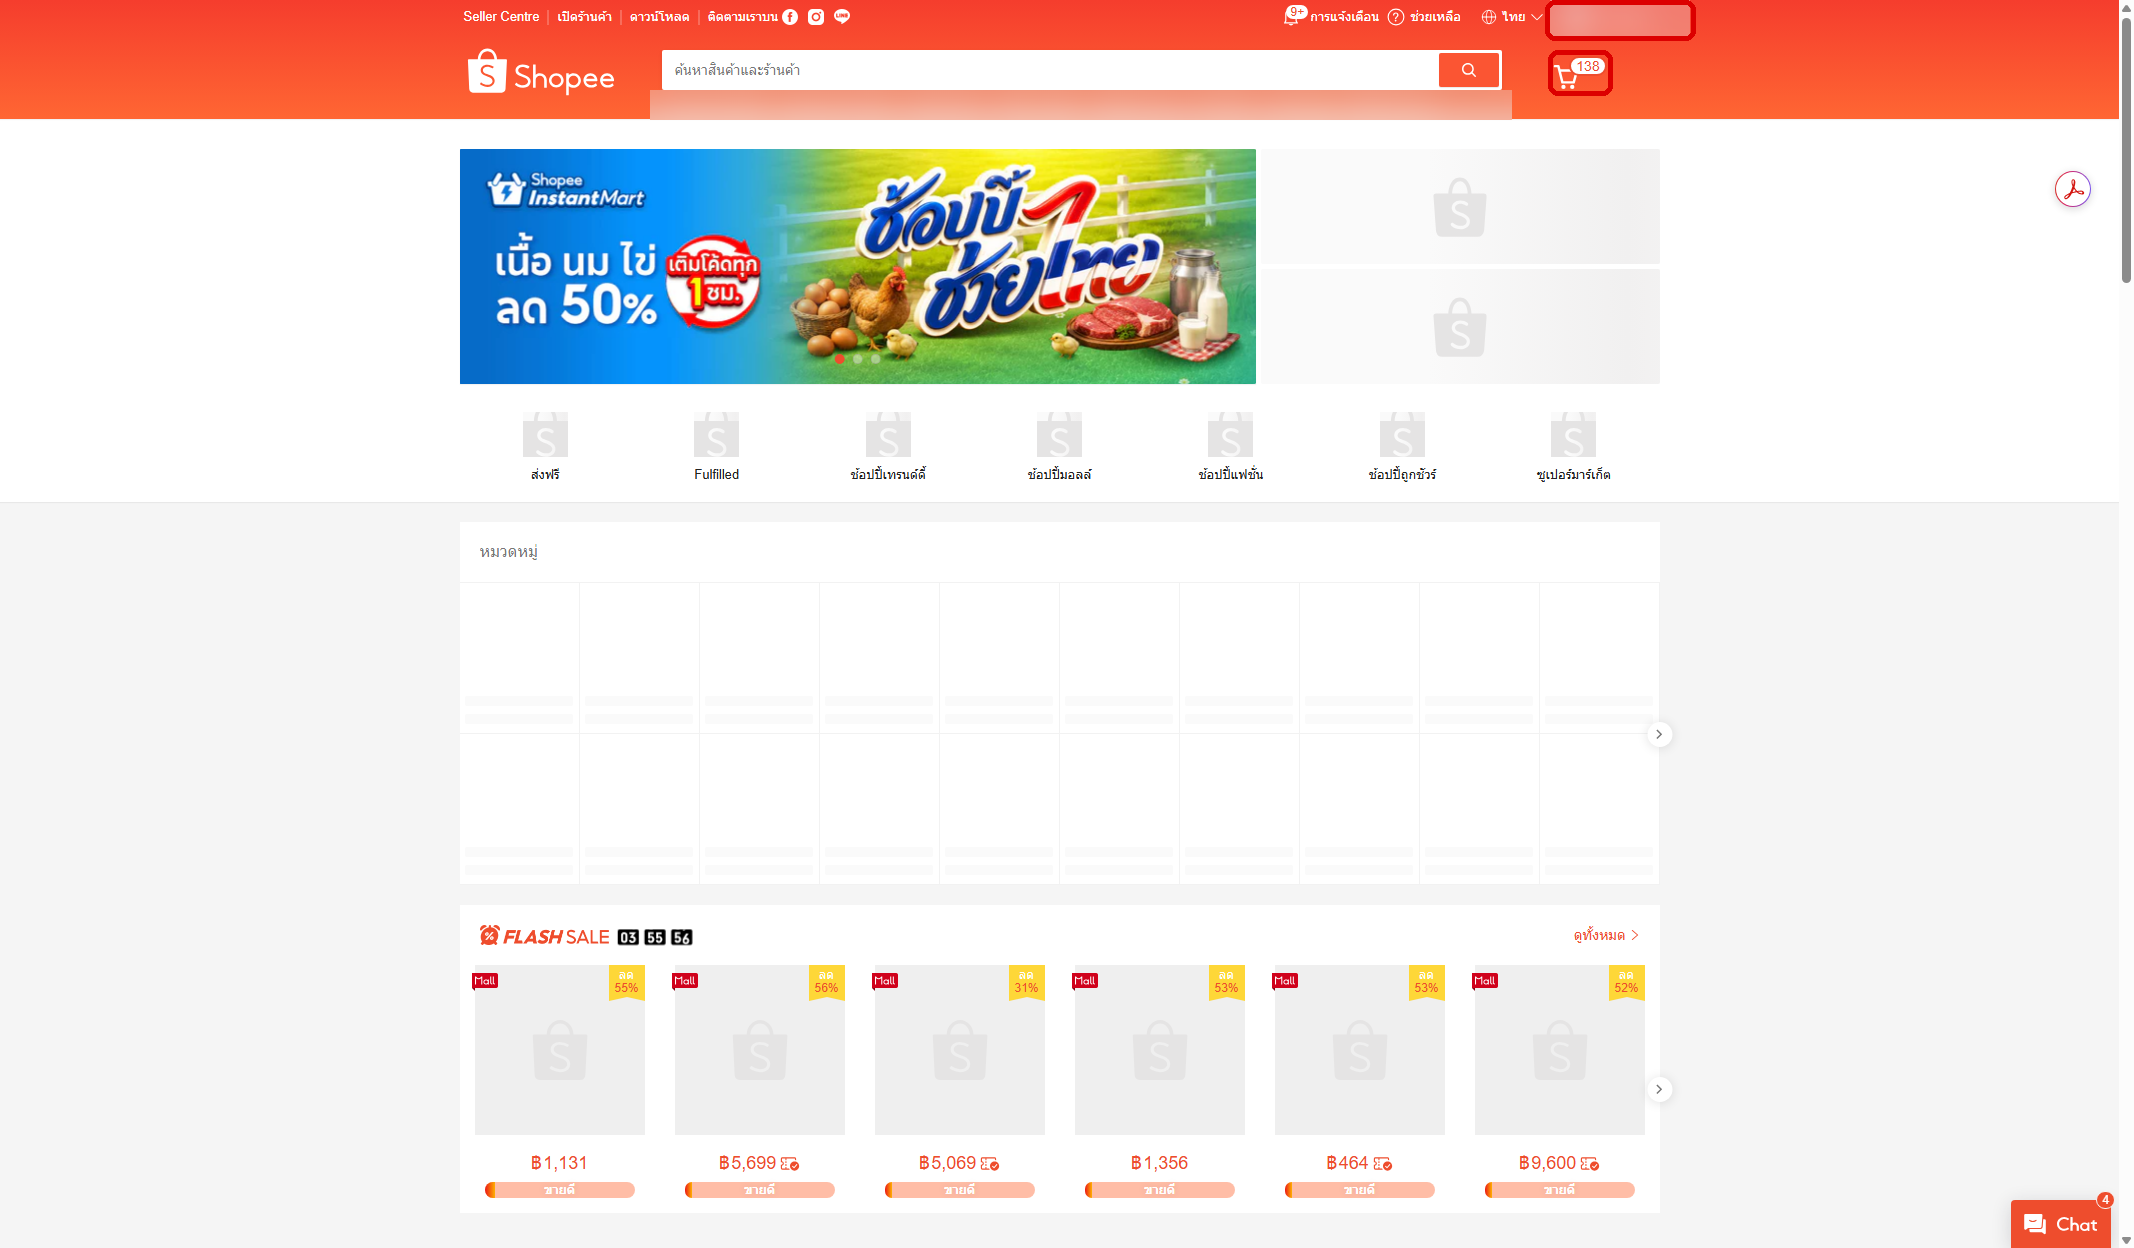
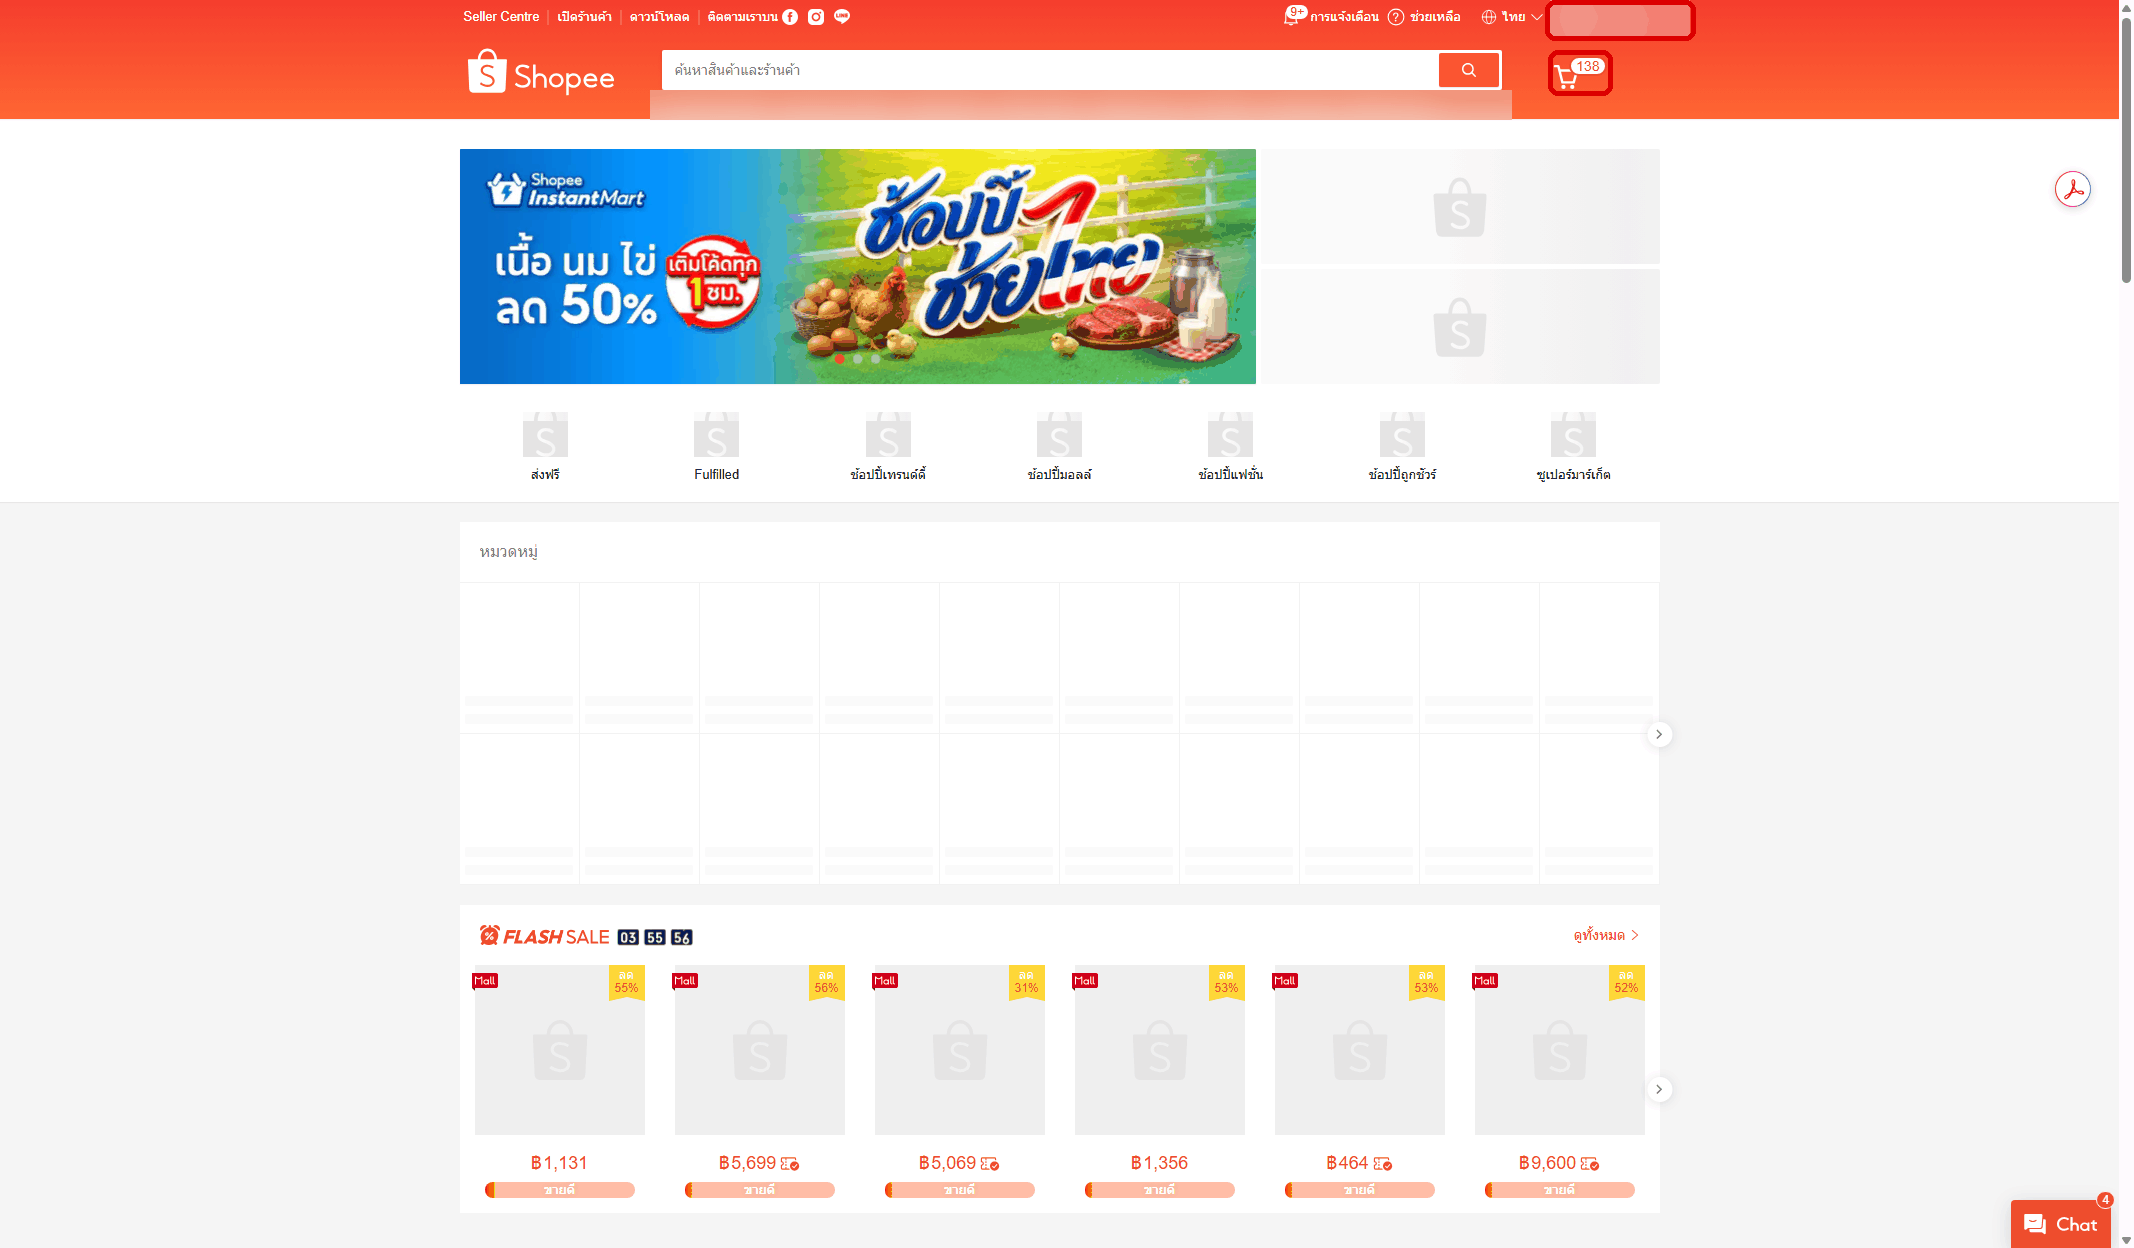
Shopee lesson: real-run results for LAB 4-8 with censored GIFs
Adds per-LAB concept images, blurred GIFs and stills for TC-SRCH-01,
TC-SRCH-02, TC-SORT-01 and TC-CART-01, the lazy-load and stale-keyword
pitfalls found in the run, and updates the solution report, results
and page checks to the 4-case plan.

Changed region(s): [[0.3093, 0.1562, 0.5876, 0.3125], [0.5567, 0.125, 0.5876, 0.1562]]

diff --git a/00_week01/02_test-from-plan/02_shopee-login/_solution/e2e/checks.js b/00_week01/02_test-from-plan/02_shopee-login/_solution/e2e/checks.js
@@ -1,32 +1,57 @@
 // Page checks used in the real run (2026-11-02). Each function is passed to the Playwright MCP
 // (browser_evaluate) on the matching page; they only read the page and never click.
 
-// TC-AUTH-01 · home page: logged in = no login/sign-up link at top right
+// Pre-check · home page: logged in = no login/sign-up link at top right
 () => {
   const nav = document.querySelector('header nav, nav');
   const text = nav ? nav.innerText : document.body.innerText;
   const cart = document.querySelector('a[href*="/cart"]');
   return {
+    captcha: /verify|captcha/i.test(location.href),
     loginButtonVisible: /เข้าสู่ระบบ|สมัครใหม่/.test(text),
-    cartBadge: cart ? cart.innerText.trim() : null,   // the account name is deliberately not returned
+    cartBadge: cart ? cart.innerText.trim().split('\n').pop() : null,   // the account name is deliberately not returned
   };
 }
 
-// TC-SRCH-01 · search results (scroll down slowly first so all cards load)
-() => {
+// TC-SRCH-01 / TC-SRCH-02 · search results (scroll down slowly first so all cards load).
+// An empty title means "not loaded yet", not "wrong product": scroll to that card and count again.
+async () => {
+  const WORD = /แมว|cat/i;            // TC-SRCH-02: /สุนัข|หมา|dog/i
   const items = [...document.querySelectorAll('li.shopee-search-item-result__item')];
-  const titles = items.map((li) => {
+  const title = (li) => {
     const t = li.querySelector('[class*="line-clamp-2"]');
     const img = li.querySelector('img[alt]');
     return ((t && t.textContent) || (img && img.alt) || '').trim();
-  });
-  const top = titles.slice(0, 20);
-  const hits = top.filter((t) => /แมว|cat/i.test(t)).length;
-  return { count: items.length, hits, ratio: hits / top.length, pass: items.length >= 20 && hits / top.length >= 0.8 };
+  };
+  for (const li of items.slice(0, 20)) {
+    if (!title(li)) {
+      li.scrollIntoView({ block: 'center' });
+      await new Promise((r) => setTimeout(r, 2500));
+    }
+  }
+  const top = items.slice(0, 20).map(title);
+  const empty = top.filter((t) => !t).length;
+  const hits = top.filter((t) => WORD.test(t)).length;
+  return { count: items.length, empty, hits, ratio: hits / 20, pass: empty === 0 && items.length >= 20 && hits / 20 >= 0.8 };
 }
 
-// TC-CART-01 · cart page: is the toy there, and how many rows in total
+// TC-SORT-01 · results after "ราคา: จากน้อยไปมาก": first 10 non-ad prices must not go down
+() => {
+  const rows = [];
+  for (const li of document.querySelectorAll('li.shopee-search-item-result__item')) {
+    if (rows.length === 10) break;
+    if (/\bAd\b|โฆษณา/.test(li.innerText)) continue;
+    const parts = li.innerText.split('\n').map((s) => s.trim()).filter(Boolean);
+    const i = parts.indexOf('฿');                       // sale price is the number right after the first ฿
+    rows.push({ price: Number((parts[i + 1] || '').replace(/,/g, '')), dog: /สุนัข|หมา|dog/i.test(parts[0]) });
+  }
+  const prices = rows.map((r) => r.price);
+  return { prices, ascending: prices.every((p, i) => i === 0 || p >= prices[i - 1]), dogFood: rows.filter((r) => r.dog).length };
+}
+
+// TC-CART-01 · cart page: is the toy in a visible row, and how many rows in total.
+// After removal the name stays in a hidden screen-reader message, so only visible links count.
 () => ({
-  toyInCart: [...document.querySelectorAll('a')].some((a) => a.textContent.includes('ซ่อนหาอัตโนมัติ')),
+  toyInCart: [...document.querySelectorAll('a')].some((a) => a.offsetParent && a.textContent.includes('ซ่อนหาอัตโนมัติ')),
   selectAll: (document.body.innerText.match(/เลือกทั้งหมด \((\d+)\)/) || [])[1],
 })

diff --git a/00_week01/02_test-from-plan/02_shopee-login/_solution/e2e/TEST-REPORT.md b/00_week01/02_test-from-plan/02_shopee-login/_solution/e2e/TEST-REPORT.md
@@ -2,37 +2,45 @@
 
 | | |
 |---|---|
-| วันที่ทดสอบ | 2 พ.ย. 2569 เวลา 12:28–12:33 น. (ใช้เวลาประมาณ 5 นาที) |
+| วันที่ทดสอบ | 2 พ.ย. 2569 · รอบเต็ม (LAB 2) 13:52–13:58 น. ประมาณ 6 นาที · รอบทีละขั้น (LAB 3–7) 14:03–14:14 น. |
 | ระบบ | https://shopee.co.th (production) |
 | เบราว์เซอร์ | Google Chrome ของผู้เรียน (login ไว้แล้ว) ผ่าน Playwright MCP แบบ Extension |
-| แผนที่ใช้ | [TEST-PLAN.md](../../TEST-PLAN.md) · 3 test case ระดับ P1 |
+| แผนที่ใช้ | [TEST-PLAN.md](../../TEST-PLAN.md) · 4 test case (P1 × 3, P2 × 1) |
 | จังหวะ | ทีละข้อ พักทุกขั้น 2–5 วินาที พิมพ์ทีละตัวอักษร |
+| ตรวจก่อนเริ่ม | ✅ login อยู่ (มุมขวาบนเป็นชื่อบัญชี ไม่มีปุ่มเข้าสู่ระบบ) รถเข็น 138 |
 
 ## 1. สรุปผล
 
-| ทั้งหมด | ✅ ผ่าน | ❌ ไม่ผ่าน | ⛔ Blocked | อัตราผ่าน |
+| ระดับ | ทั้งหมด | ✅ ผ่าน | ❌ ไม่ผ่าน | ⛔ Blocked |
 |---|---|---|---|---|
-| 3 | 3 | 0 | 0 | 100% |
+| 🔴 P1 | 3 | 3 | 0 | 0 |
+| 🟡 P2 | 1 | 1 | 0 | 0 |
+| **รวม** | **4** | **4** | **0** | **0** |
 
-**ผลการประเมิน: ✅ ผ่านเกณฑ์** (เกณฑ์: P1 ต้องผ่านครบทั้ง 3 ข้อ)
+**ผลการประเมิน: ✅ ผ่านเกณฑ์** (เกณฑ์: P1 ต้องผ่านครบทั้ง 3 ข้อ · P2 ไม่ผ่านได้แต่ต้องรายงาน)
 
 ## 2. ผลราย test case
 
-| ID | สิ่งที่ทดสอบ | ผลที่คาดหวัง | ผลจริง | ผล |
-|---|---|---|---|---|
-| TC-AUTH-01 | เปิดเว็บด้วย session ที่คน login ไว้ | มุมขวาบนเห็นชื่อบัญชี ไม่เห็นปุ่ม "เข้าสู่ระบบ" / "สมัครใหม่" | เห็นชื่อบัญชี (เบลอในภาพ) ไม่มีปุ่มเข้าสู่ระบบ รถเข็นมี 138 ชิ้น | ✅ |
-| TC-SRCH-01 | ค้นหา "อาหารแมว" | ≥ 20 รายการ และ 20 ชื่อแรก ≥ 80% มี "แมว"/"cat" | หน้าแรก 58 รายการ (ทั้งหมด 6 หน้า) · 20 ชื่อแรกมีคำว่าแมว/cat **20/20 = 100%** | ✅ |
-| TC-CART-01 | ใส่ของเล่นแมวลงรถเข็น แล้วลบออก | สินค้าอยู่ในรถเข็น และหลังลบกลับเหมือนเดิม | สินค้าแรก "ของเล่นเเมวซ่อนหาอัตโนมัติ…" (สีฟ้า ตัวเลือกเดียว) · รถเข็น 138 → **139** → **138** · หน้ารถเข็น "เลือกทั้งหมด" 13 → 12 · ไม่ได้กดซื้อ | ✅ |
+ทั้งสองรอบได้ผลเหมือนกันทุกข้อ ตารางนี้ใช้ตัวเลขจากรอบทีละขั้น
+
+| ID | ระดับ | สิ่งที่ทดสอบ | ผลที่คาดหวัง | ผลจริง | ผล |
+|---|---|---|---|---|---|
+| TC-SRCH-01 | P1 | ค้นหา "อาหารแมว" | ≥ 20 รายการ และ 20 ชื่อแรก ≥ 80% มี "แมว"/"cat" | หน้าแรก 60 รายการ (ทั้งหมด 7 หน้า) · 20 ชื่อแรกมีคำว่าแมว/cat **20/20 = 100%** | ✅ |
+| TC-SRCH-02 | P1 | ค้นหา "อาหารสุนัข" | ≥ 20 รายการ และ 20 ชื่อแรก ≥ 80% มี "สุนัข"/"หมา"/"dog" | หน้าแรก 60 รายการ (ทั้งหมด 7 หน้า) · **20/20 = 100%** | ✅ |
+| TC-SORT-01 | P2 | เรียงอาหารสุนัขตามราคาจากน้อยไปมาก | ราคา 10 รายการแรกที่ไม่ใช่โฆษณาเรียงจากน้อยไปมาก และยังเป็นอาหารสุนัข | ราคา ฿6, 8, 8, 8, 10, 12, 12, 12, 13, 13 · เรียงถูกทั้ง 9 คู่ · ไม่มีโฆษณาแทรก · อาหารสุนัข **10/10** | ✅ |
+| TC-CART-01 | P1 | ใส่ของเล่นแมวลงรถเข็น แล้วลบออก | สินค้าอยู่ในรถเข็น และหลังลบกลับเหมือนเดิม | สินค้าแรก "ของเล่นเเมวซ่อนหาอัตโนมัติ…" (สีฟ้า ฿209) · รถเข็น 138 → **139** → **138** · "เลือกทั้งหมด" 13 → 12 · ไม่ได้กดซื้อ | ✅ |
 
 ## 3. เหตุการณ์ระหว่างทดสอบ
 
-| เวลา | เหตุการณ์ | จัดการอย่างไร |
+| เหตุการณ์ | ใครจัดการ / จัดการอย่างไร | กระทบผลไหม |
 |---|---|---|
-| 12:28 | เปิดหน้าแรกครั้งแรก Shopee พาไปหน้า `/verify/traffic` → `/verify/captcha` (ตรวจว่าเป็นคนไหม) | Playwright หยุดรอ **ผู้เรียนเลื่อนยืนยันเอง** ประมาณ 9 วินาที แล้วกลับหน้าแรกแบบ login อยู่ AI ไม่ได้แตะ CAPTCHA |
-| 12:33 | กลับหน้าแรก มีป๊อปอัปโปรโมชันขึ้นทับหน้า | ไม่กระทบผล ป๊อปอัปปิดเองแล้วจึงถ่ายภาพหลักฐานใหม่ |
+| เปิดหน้าแรกรอบแรกของวัน Shopee พาไป `/verify/captcha` | **ผู้เรียนเลื่อนยืนยันเอง** ประมาณ 9 วินาที AI ไม่ได้แตะ CAPTCHA · รอบหลังไม่ขึ้นอีก | ไม่กระทบ |
+| นับชื่อสินค้าก่อนโหลดครบ การ์ดที่ 16–20 ยังว่าง ได้ 15/20 = 75% | Playwright เลื่อนไปที่การ์ดที่ว่างให้โหลด แล้วนับใหม่ได้ 20/20 | ไม่กระทบ (ผลรอบแรกเป็นการนับผิด ไม่ใช่บั๊ก) |
+| ลบคำค้นเดิมไม่หมด ค้นหาเป็น "อาหารสุนัขอาหารแมว" | ทิ้งผลรอบนั้น ล้างช่องค้นหาให้ว่างแล้วค้นหา "อาหารสุนัข" ใหม่ | ไม่กระทบ (ไม่นับผลรอบที่ค้นผิด) |
+| หน้าต่าง Chrome ถูกบัง (`visibilityState: hidden`) คลิกและถ่ายภาพ timeout เป็นบางครั้ง | ทำขั้นนั้นใหม่ · ภาพที่ไม่ได้ใช้ภาพจากรอบเต็มแทน | ไม่กระทบ |
 
 ## 4. ข้อบกพร่อง (Defects)
-ไม่พบ
+ไม่พบข้อบกพร่องของ Shopee · เหตุการณ์ในข้อ 3 เป็นเรื่องวิธีทดสอบ ไม่ใช่ความผิดของระบบ
 
 ## 5. หลักฐาน
-ภาพทุกขั้นอยู่ใน [`img/`](../../img) (เบลอชื่อบัญชีและสินค้าอื่นในรถเข็นแล้ว) · ตัวเลขดิบอยู่ใน [results.json](results.json) · โค้ดที่ใช้ตรวจหน้าเว็บอยู่ใน [checks.js](checks.js)
+GIF และภาพทุกขั้นอยู่ใน [`img/`](../../img) (เบลอชื่อบัญชี ประวัติการค้นหา และสินค้าอื่นในรถเข็นแล้ว) · ตัวเลขดิบอยู่ใน [results.json](results.json) · โค้ดที่ใช้ตรวจหน้าเว็บอยู่ใน [checks.js](checks.js)
